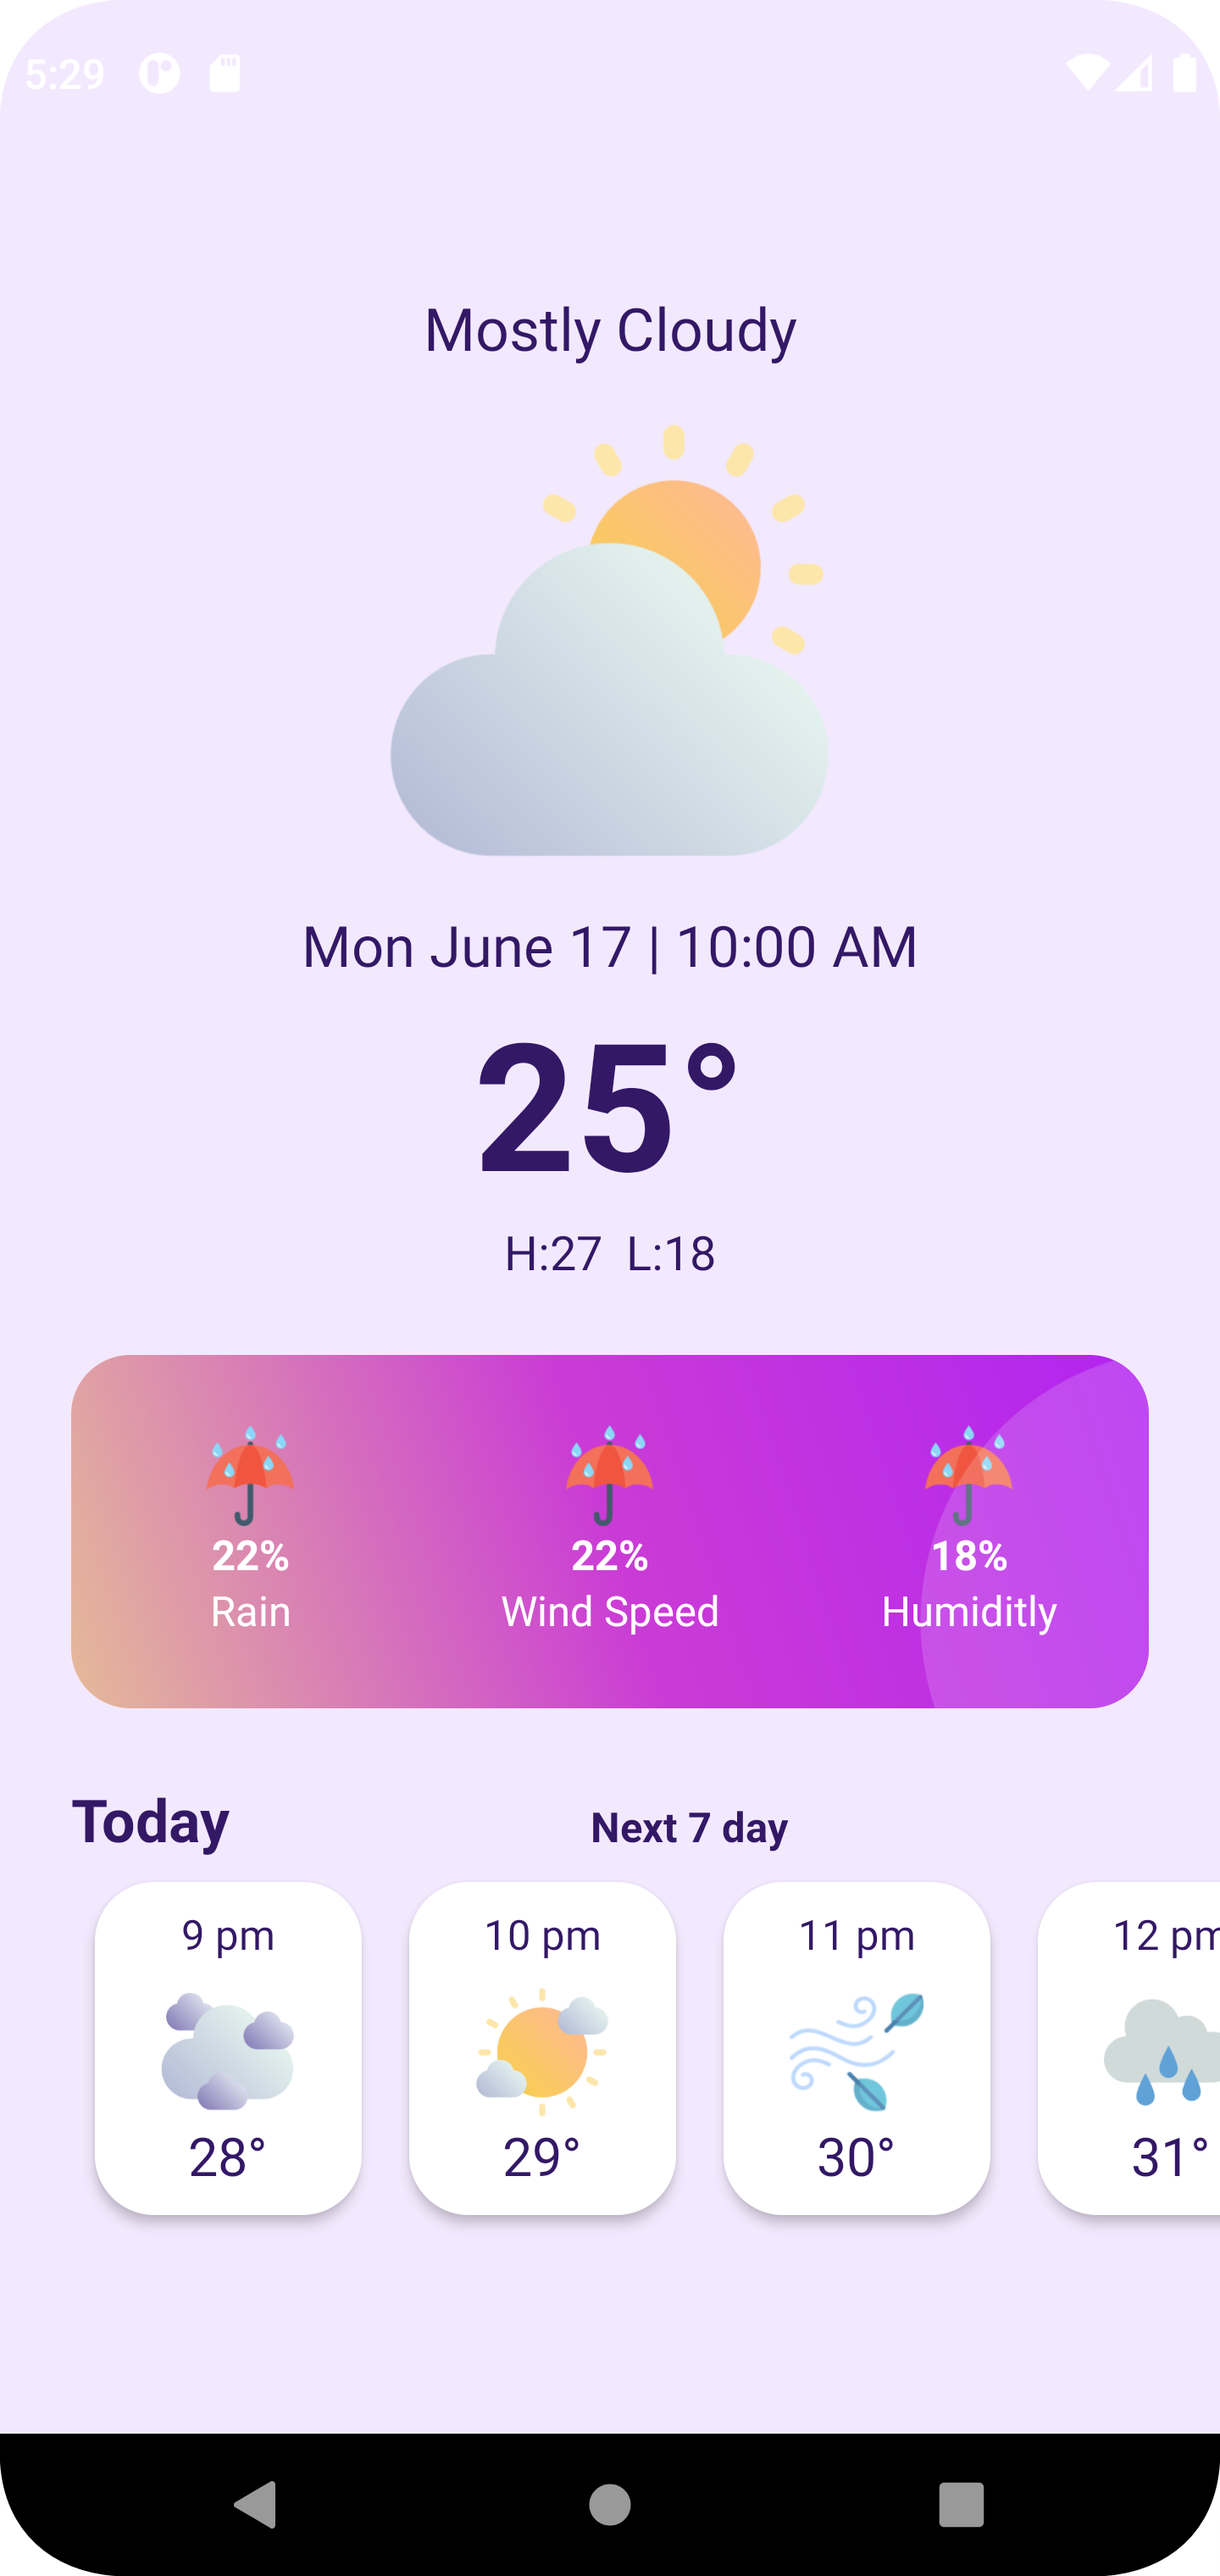
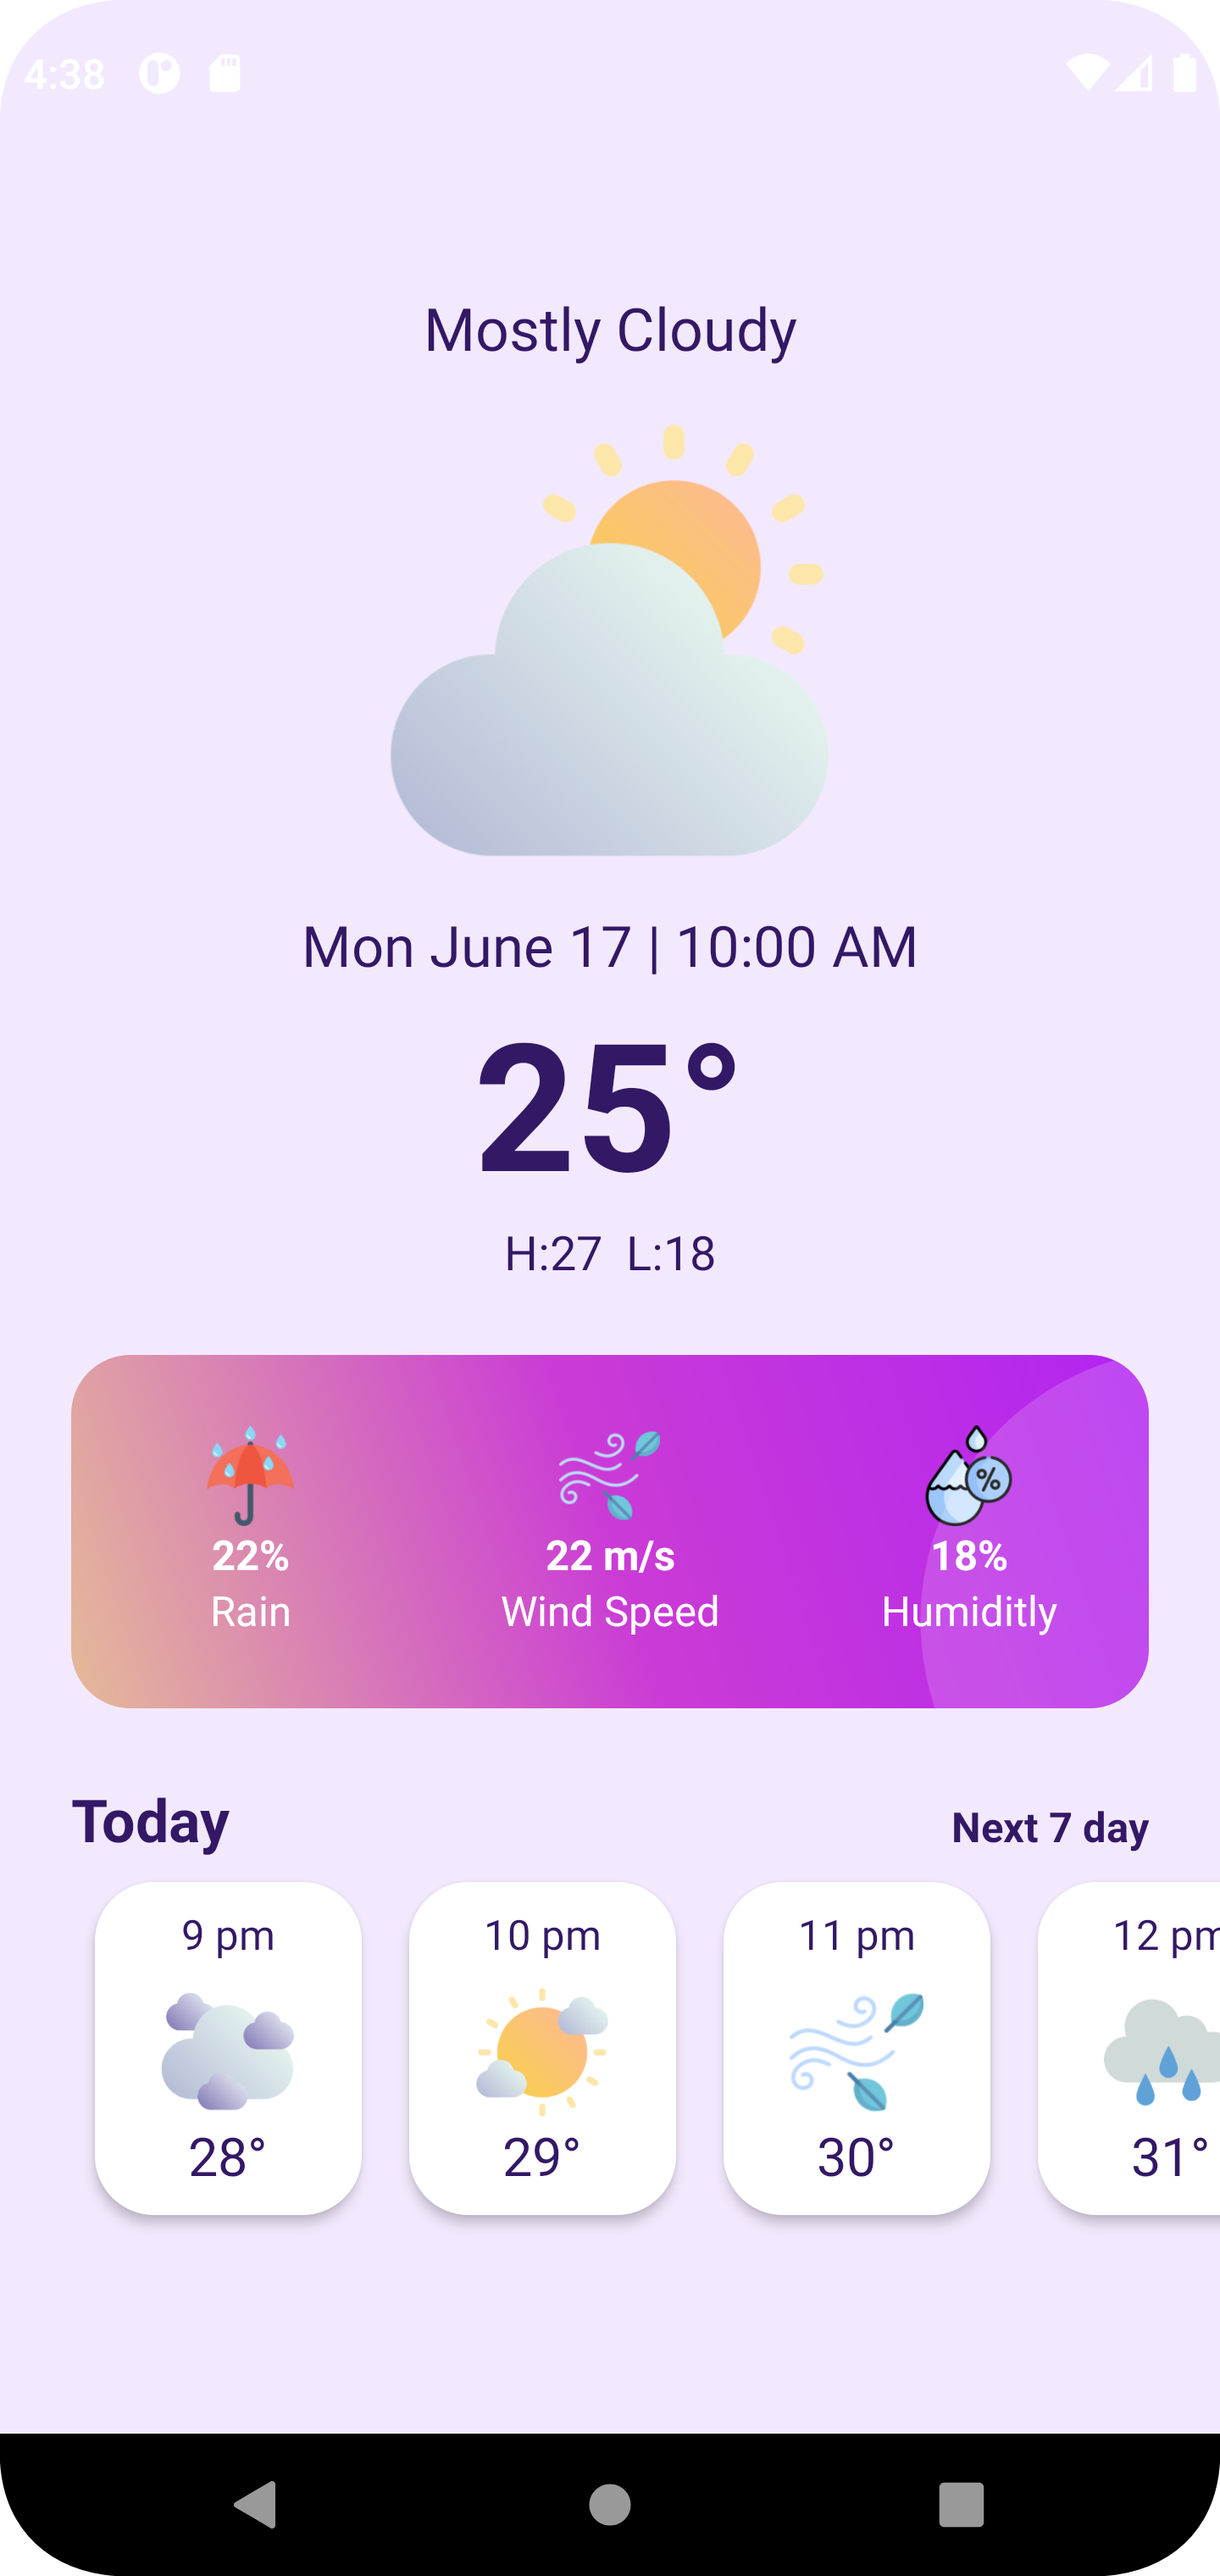
complete project

diff --git a/app/src/main/java/com/tutorial/weather/Adapters/FutureAdapters.java b/app/src/main/java/com/tutorial/weather/Adapters/FutureAdapters.java
@@ -1,0 +1,83 @@
+package com.tutorial.weather.Adapters;
+
+import android.content.Context;
+import android.view.ContentInfo;
+import android.view.LayoutInflater;
+import android.view.View;
+import android.view.ViewGroup;
+import android.widget.ImageView;
+import android.widget.TextView;
+
+import androidx.annotation.NonNull;
+import androidx.recyclerview.widget.RecyclerView;
+
+import com.bumptech.glide.Glide;
+import com.tutorial.weather.Domains.FutureDomain;
+import com.tutorial.weather.Domains.Hourly;
+import com.tutorial.weather.R;
+
+import java.util.ArrayList;
+
+public class FutureAdapters extends RecyclerView.Adapter<FutureAdapters.viewholder> {
+    ArrayList<FutureDomain> items;
+    Context context;
+
+    public FutureAdapters(ArrayList<FutureDomain> items) {
+        this.items = items;
+    }
+
+    @NonNull
+    @Override
+    public FutureAdapters.viewholder onCreateViewHolder(@NonNull ViewGroup parent, int viewType) {
+        context = parent.getContext();
+        View inflate = LayoutInflater.from(parent.getContext()).inflate(
+                R.layout.viewholder_future,
+                parent,
+                false
+        );
+
+        return new viewholder(inflate);
+    }
+
+    @Override
+    public void onBindViewHolder(@NonNull viewholder holder, int position) {
+        holder.dayTxt.setText(items.get(position).getDay());
+        holder.statusTxt.setText(items.get(position).getStatus());
+        holder.highTxt.setText(items.get(position).getHighTemp()+"°");
+        holder.lowTxt.setText(items.get(position).getLowTemp()+"°");
+
+        int drawableResourceId = holder.itemView.getResources()
+                .getIdentifier(
+                        items.get(position).getPicPath(),
+                        "drawable",
+                        holder.itemView.getContext().getPackageName()
+                );
+
+        Glide.with(context)
+                .load(drawableResourceId)
+                .into(holder.pic);
+    }
+
+    @Override
+    public int getItemCount() {
+        return items.size();
+    }
+
+    public class viewholder extends RecyclerView.ViewHolder{
+        TextView dayTxt, statusTxt, highTxt, lowTxt;
+        ImageView pic;
+
+
+        public viewholder(@NonNull View itemView) {
+            super(itemView);
+
+            dayTxt = itemView.findViewById(R.id.dayTxt);
+            statusTxt = itemView.findViewById(R.id.statusTxt);
+
+            highTxt = itemView.findViewById(R.id.highTxt);
+            lowTxt = itemView.findViewById(R.id.lowTxt);
+
+            pic = itemView.findViewById(R.id.pic);
+        }
+    }
+}

diff --git a/app/src/main/java/com/tutorial/weather/Activities/FutureActivity.java b/app/src/main/java/com/tutorial/weather/Activities/FutureActivity.java
@@ -1,0 +1,56 @@
+package com.tutorial.weather.Activities;
+
+import android.content.Intent;
+import android.os.Bundle;
+
+import androidx.appcompat.app.AppCompatActivity;
+import androidx.constraintlayout.widget.ConstraintLayout;
+import androidx.recyclerview.widget.LinearLayoutManager;
+import androidx.recyclerview.widget.RecyclerView;
+
+import com.tutorial.weather.Adapters.FutureAdapters;
+import com.tutorial.weather.Domains.FutureDomain;
+import com.tutorial.weather.R;
+
+import java.util.ArrayList;
+
+public class FutureActivity extends AppCompatActivity {
+    private RecyclerView.Adapter adapterTomorrow;
+    private RecyclerView recyclerView;
+
+    @Override
+    protected void onCreate(Bundle savedInstanceState) {
+        super.onCreate(savedInstanceState);
+        setContentView(R.layout.activity_future);
+
+        initRecyclerview();
+        setVariable();
+    }
+
+    private void setVariable() {
+        ConstraintLayout backBtn = findViewById(R.id.backBtn);
+
+        backBtn.setOnClickListener(view ->
+                startActivity(new Intent(FutureActivity.this, MainActivity.class)));
+    }
+
+    private void initRecyclerview() {
+        ArrayList<FutureDomain> items = new ArrayList<>();
+
+        items.add(new FutureDomain("Sat",  "cloudy", "Cloudy", 28, 20));
+        items.add(new FutureDomain("Sun",  "storm", "Wind", 25, 21));
+        items.add(new FutureDomain("Mon",  "sunny", "Sunny", 32, 19));
+        items.add(new FutureDomain("Thu",  "wind", "Storm", 23, 18));
+        items.add(new FutureDomain("Wed",  "rain", "Rain", 30, 23));
+
+        recyclerView = findViewById(R.id.future_view);
+        recyclerView.setLayoutManager(
+                new LinearLayoutManager(this,
+                        LinearLayoutManager.VERTICAL,
+                        false));
+
+        adapterTomorrow = new FutureAdapters(items);
+        recyclerView.setAdapter(adapterTomorrow);
+
+    }
+}

diff --git a/app/src/main/java/com/tutorial/weather/Activities/MainActivity.java b/app/src/main/java/com/tutorial/weather/Activities/MainActivity.java
@@ -1,8 +1,9 @@
-package com.tutorial.weather.Activitis;
+package com.tutorial.weather.Activities;
 
+import android.content.Intent;
 import android.os.Bundle;
+import android.widget.TextView;
 
-import androidx.annotation.Nullable;
 import androidx.appcompat.app.AppCompatActivity;
 import androidx.recyclerview.widget.LinearLayoutManager;
 import androidx.recyclerview.widget.RecyclerView;
@@ -22,6 +23,19 @@ public class MainActivity extends AppCompatActivity {
         setContentView(R.layout.activity_main);
         
         initRecyclerview();
+
+        next7day();
+    }
+
+    private void next7day() {
+        TextView tomorrow = findViewById(R.id.next7day);
+
+        tomorrow.setOnClickListener(view -> {
+            startActivity(new Intent(MainActivity.this, FutureActivity.class));
+        });
+
+
+
     }
 
     private void initRecyclerview() {

diff --git a/README.md b/README.md
@@ -2,5 +2,5 @@
 https://www.youtube.com/watch?v=z72ChtkbnfA
 <p align="center">
 <img src="Image/main.png" width="45%">
-<img src="Image/future.png" width="45%">
+<img src="Image/Tomorrow.png" width="45%">
 </p>
